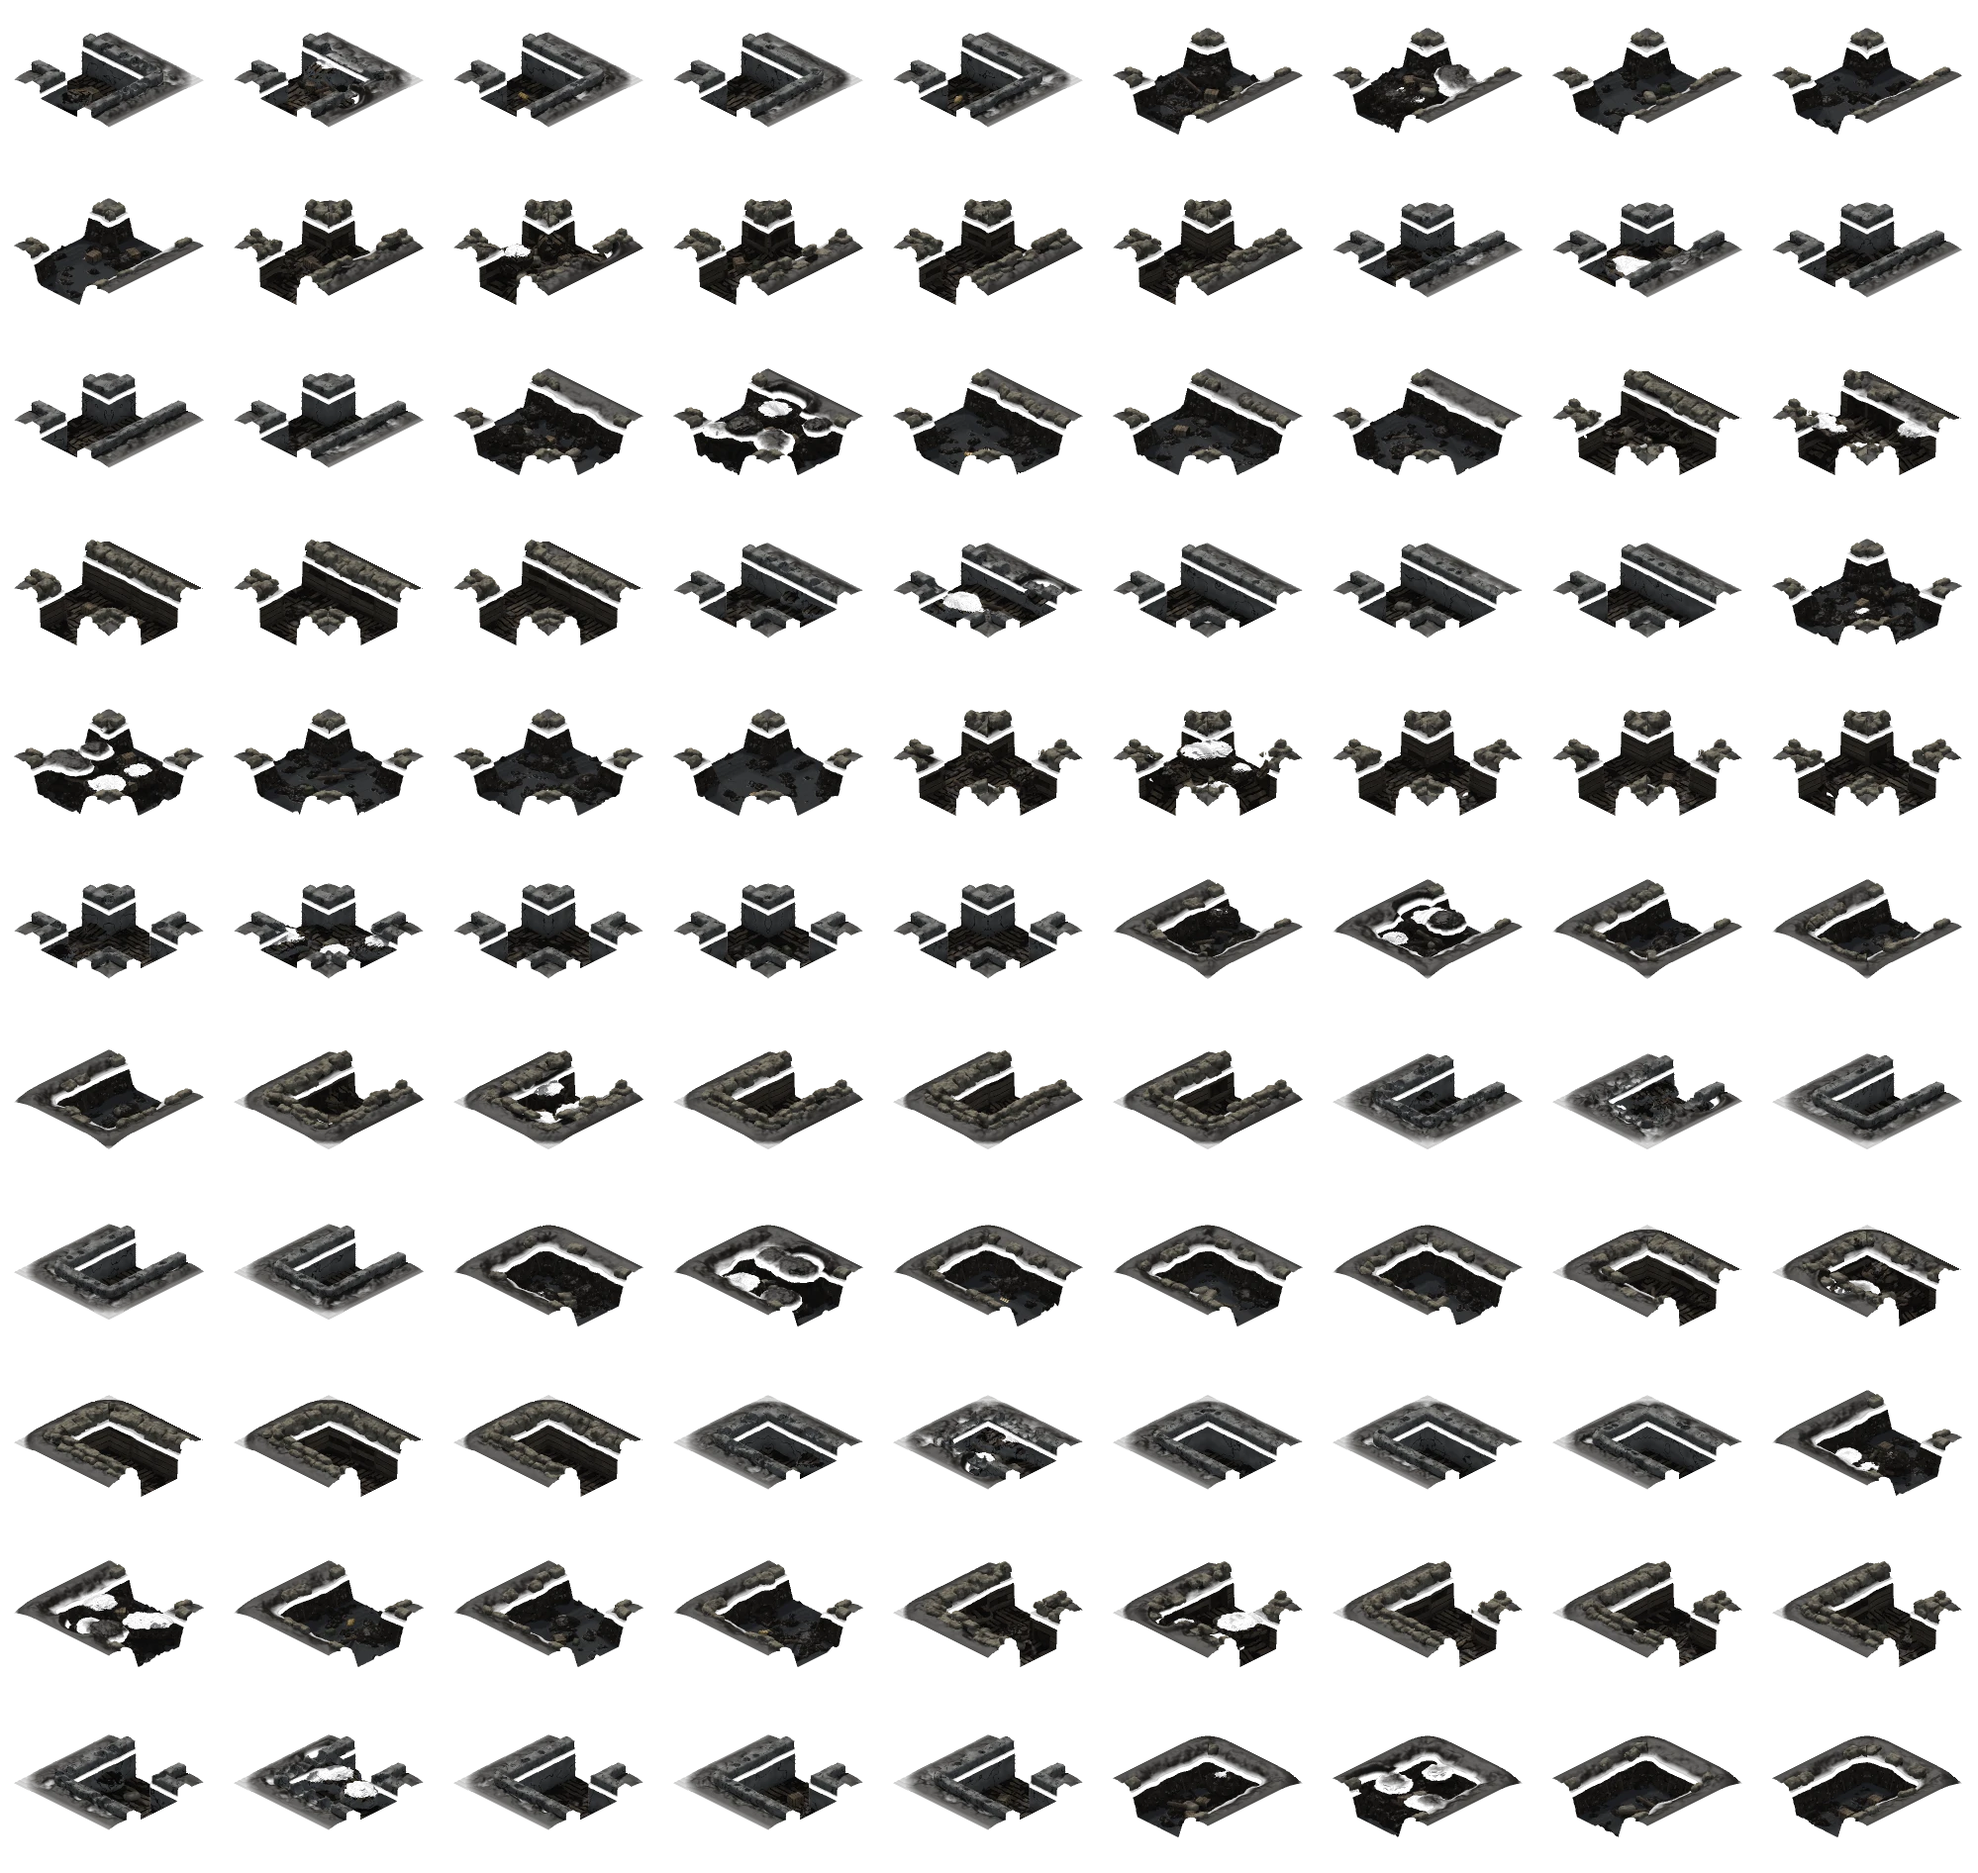
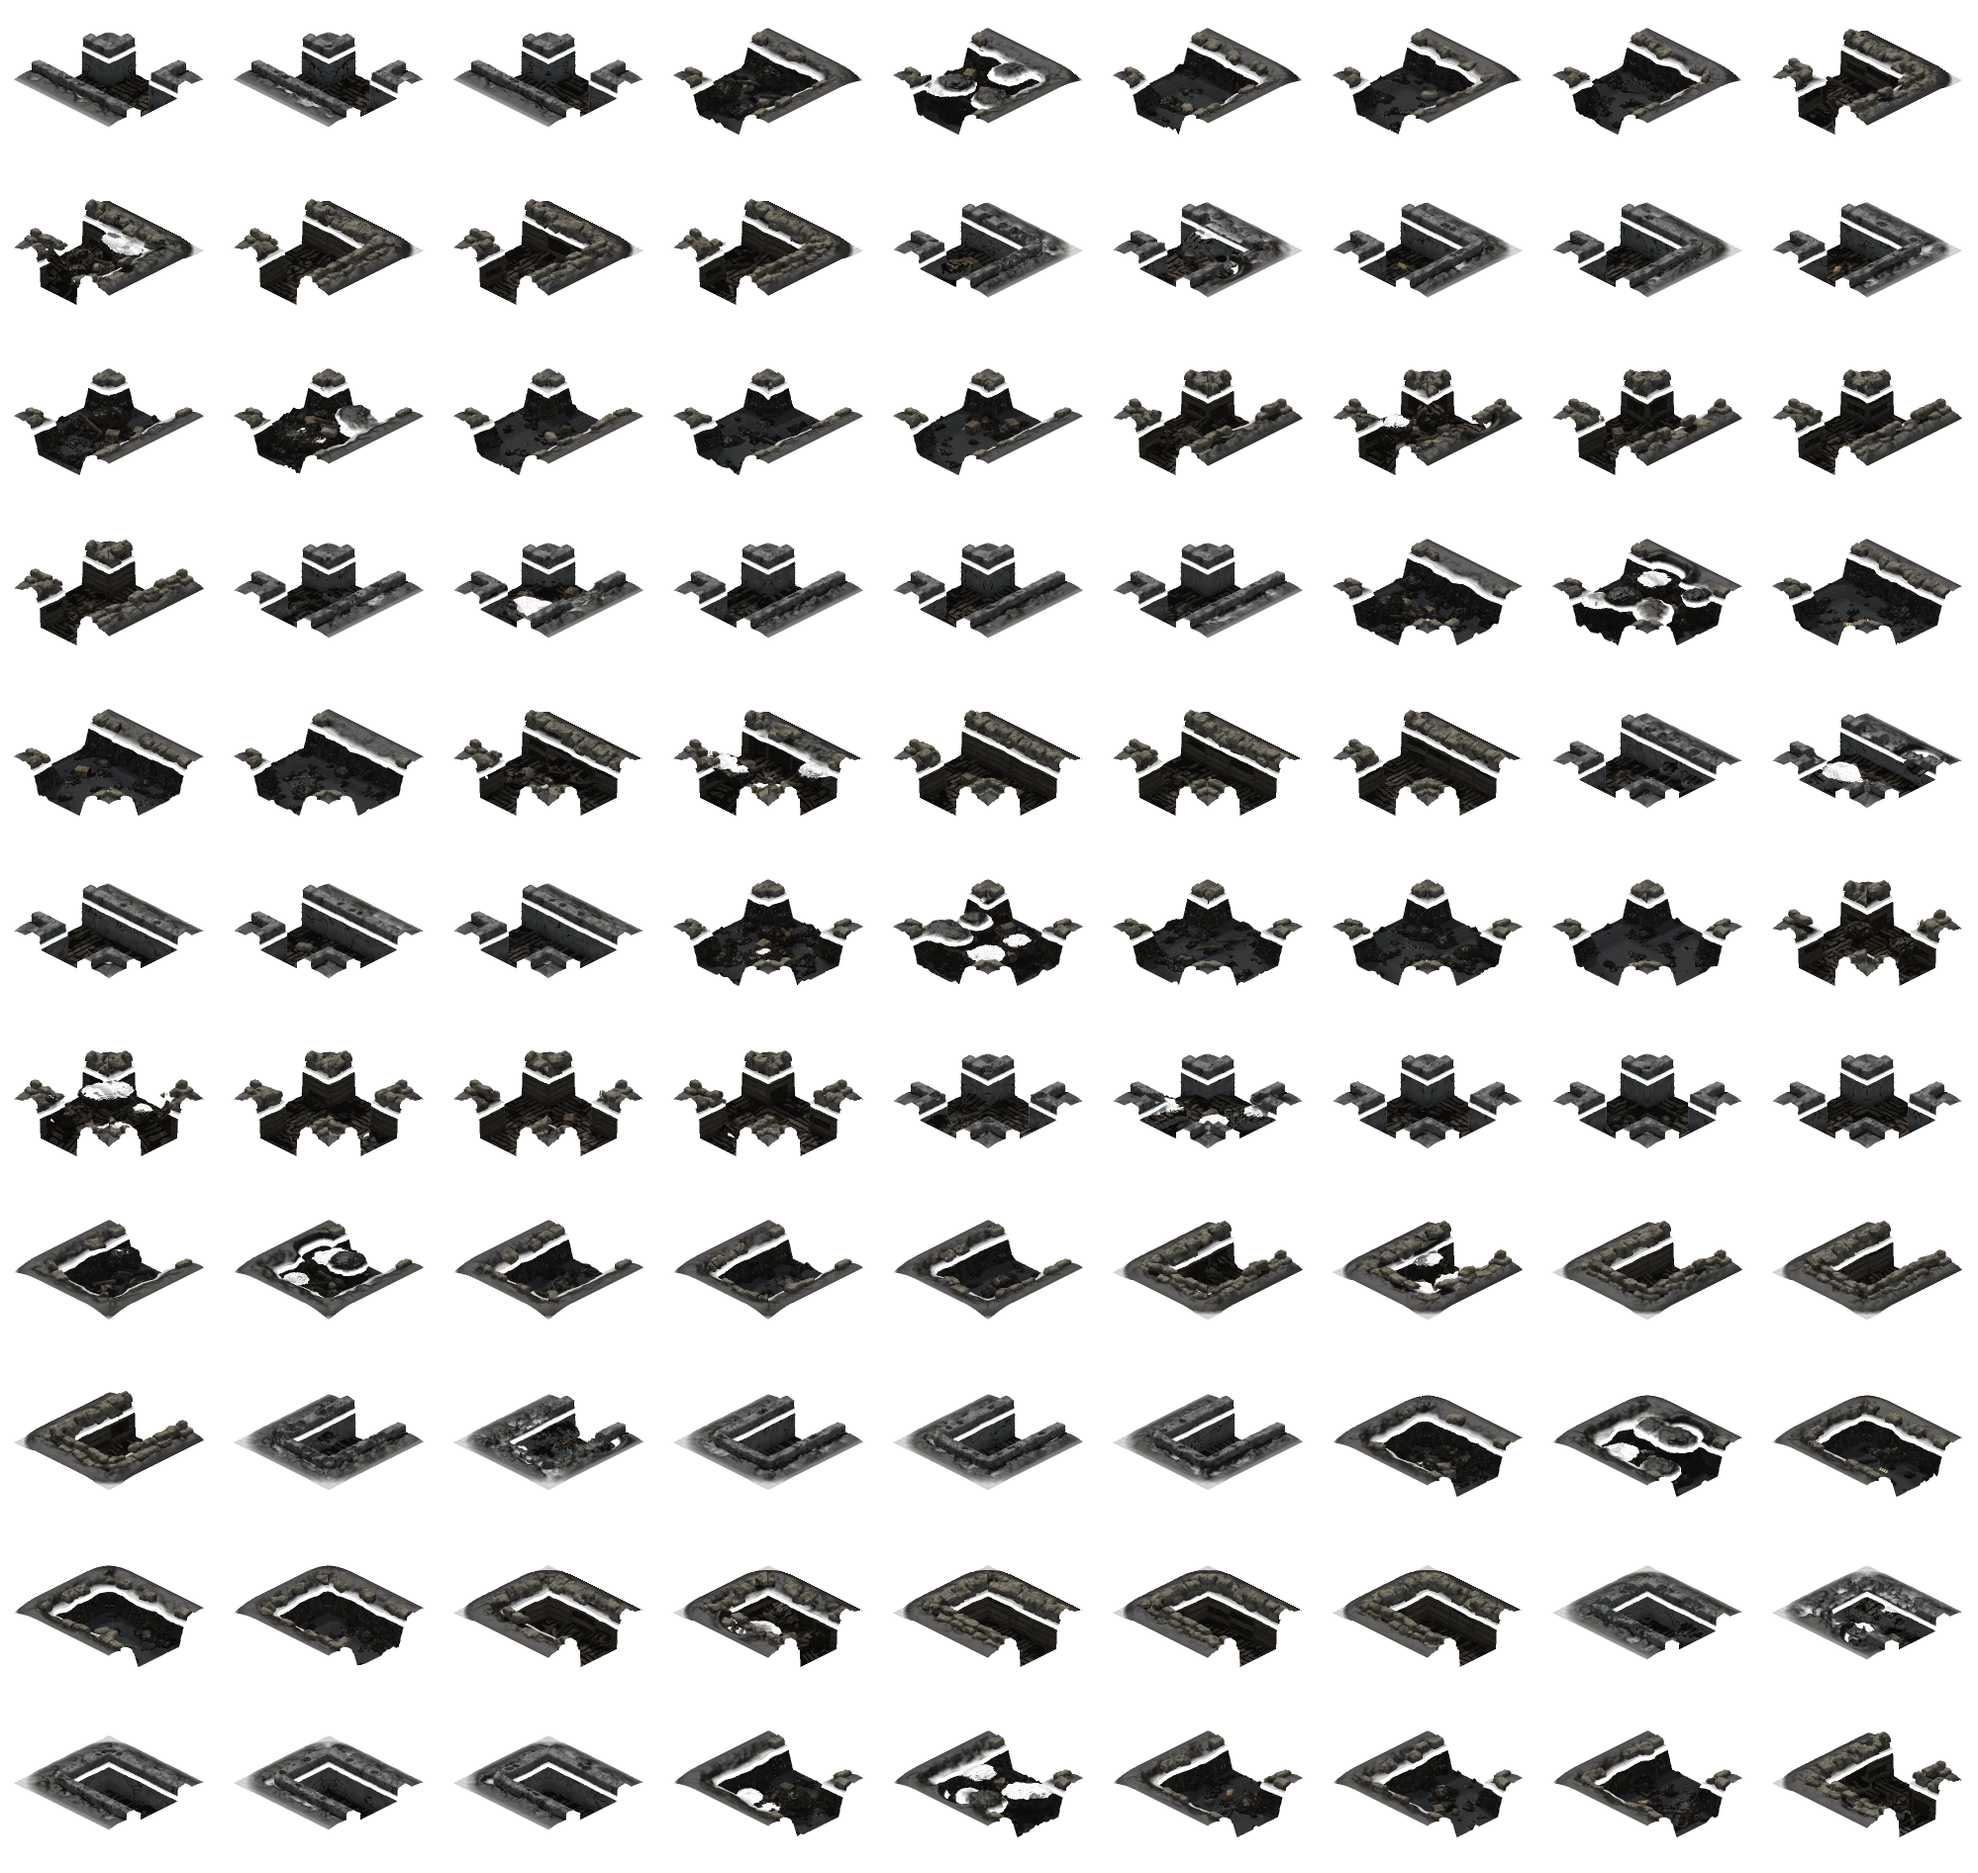
Hedgerows of mixed bushes
The hedges are rendered in four leaf tones (12 more sprites): the mid-green
hawthorn, olive and yellow-green (hazel, field maple), dark blue-green
(blackthorn, holly), and green turning rust in patches with red hawthorn
berries. Along a hedgerow each bush takes a tone and a size (85-115 %) of its
own, so no two neighbours match. Under snow they stay bare and white.

Claude-Session: https://claude.ai/code/session_01QRLYjet5i3xPK5hPmw42NL

diff --git a/src/render.js b/src/render.js
@@ -1492,7 +1492,11 @@ export class Renderer {
     const snow = (this.S ?? 1) > 0.7 ? '_s' : '', h = hash(t.x * 2.3, t.y * 5.1), m = hash(t.y * 1.1, t.x * 3.7) > 0.5;
     const centre = iso(t.x + 0.5, t.y + 0.5), loose = iso(t.x + 0.3 + t.shade * 0.4, t.y + 0.3 + h * 0.4);
     switch (t.decor) {
-      case 'hedge': return this.drawProp(ctx, `hedge${Math.floor(h * 4) % 4}${snow}`, centre.x, centre.y, m);
+      case 'hedge': { // a mixed hedgerow: each bush its own leaf (mostly green, some olive, dark or turning) and size
+        const r = hash(t.x * 7.7, t.y * 3.3), tone = snow ? '' : r < 0.38 ? '' : r < 0.6 ? 't1' : r < 0.8 ? 't2' : 't3';
+        const k = 0.85 + hash(t.y * 5.1, t.x * 1.9) * 0.3;
+        return this.drawFrame(ctx, this.propGroup(), `hedge${Math.floor(h * 4) % 4}${tone}${snow}`, centre.x, centre.y, k, m) || this.drawProp(ctx, `hedge${Math.floor(h * 4) % 4}${snow}`, centre.x, centre.y, m);
+      }
       case 'scrub': return this.drawProp(ctx, `scrub${Math.floor(h * 4) % 4}${snow}`, loose.x, loose.y, m);
       case 'reeds': return this.drawProp(ctx, `reeds${Math.floor(h * 3) % 3}${snow}`, centre.x, centre.y, m);
       case 'palm': return this.drawProp(ctx, `palm${Math.floor(h * 4) % 4}`, loose.x, loose.y, m);

diff --git a/index.html b/index.html
@@ -26,7 +26,7 @@
       "./src/model-view.js": "./src/model-view.js?v=50bbd868",
       "./src/path.js": "./src/path.js?v=23c490f7",
       "./src/relief.js": "./src/relief.js?v=74f1dfb1",
-      "./src/render.js": "./src/render.js?v=b2b06729",
+      "./src/render.js": "./src/render.js?v=9ba7a7d6",
       "./src/save.js": "./src/save.js?v=a1d5bf24",
       "./src/tutorial.js": "./src/tutorial.js?v=91f46210",
       "./src/ui.js": "./src/ui.js?v=a06b98e5",
